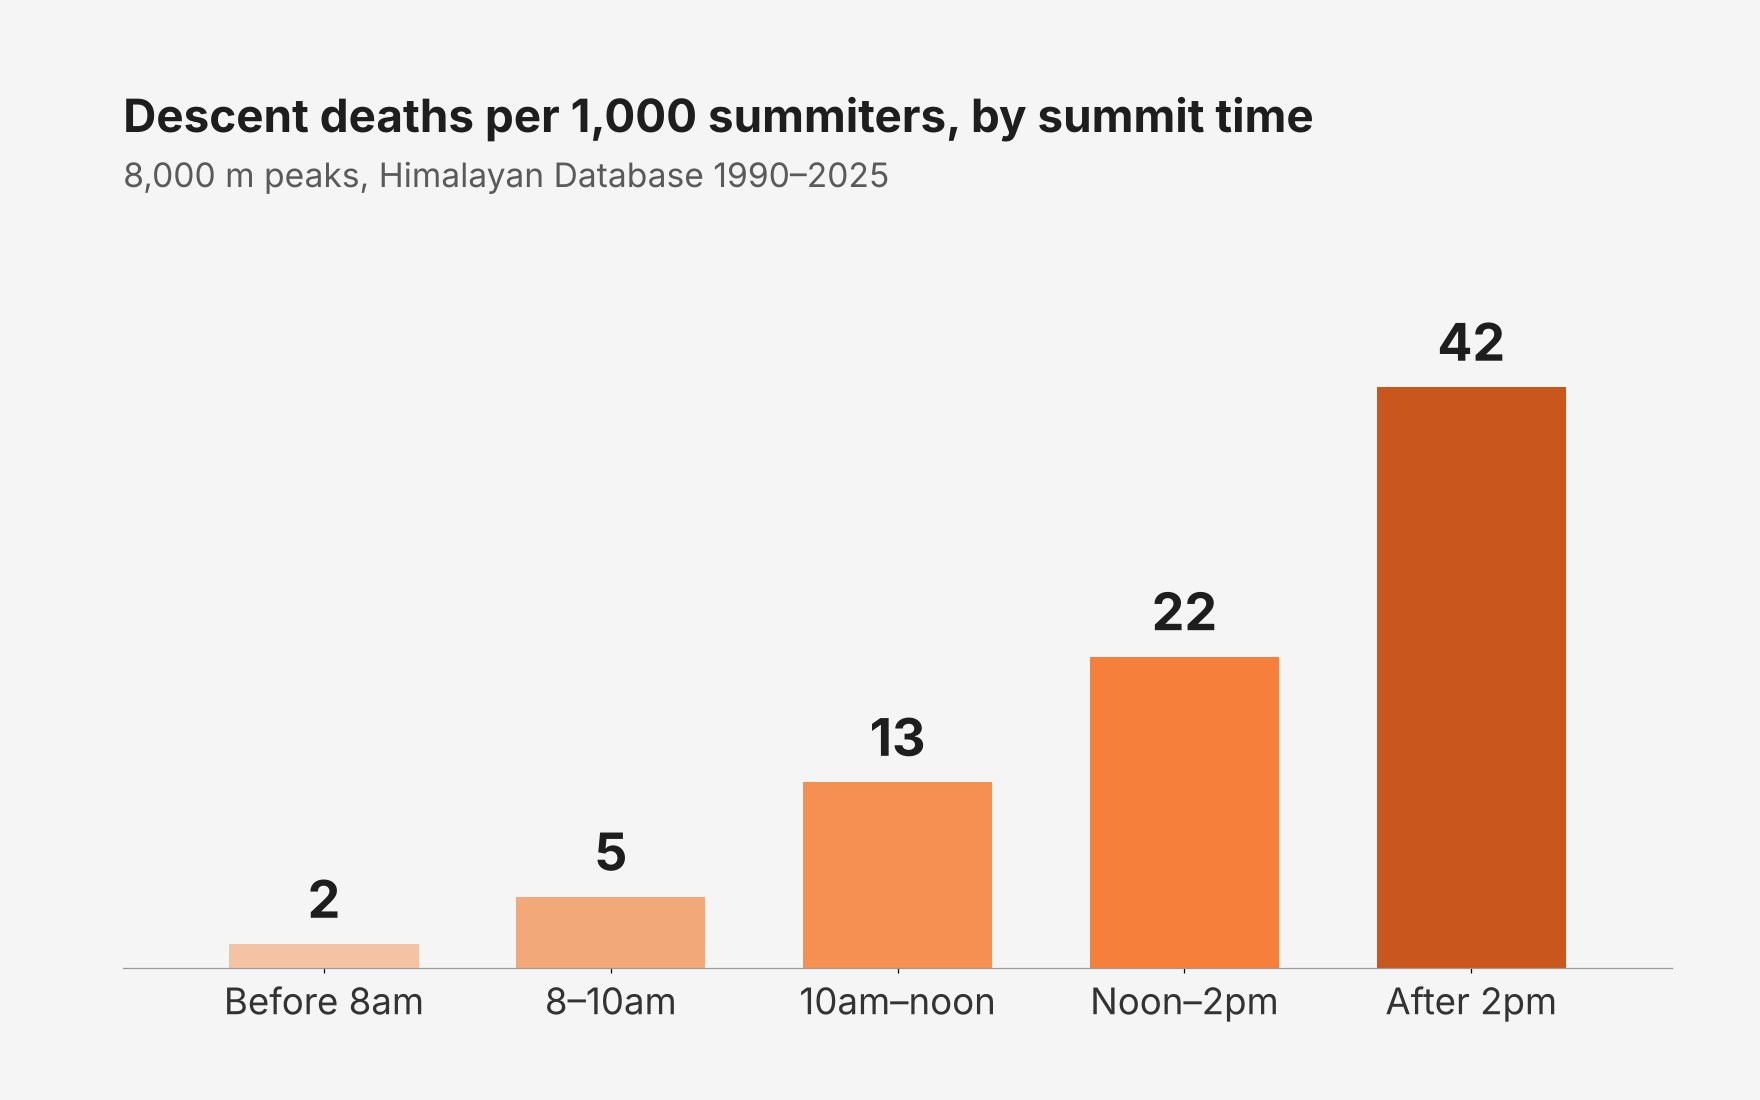
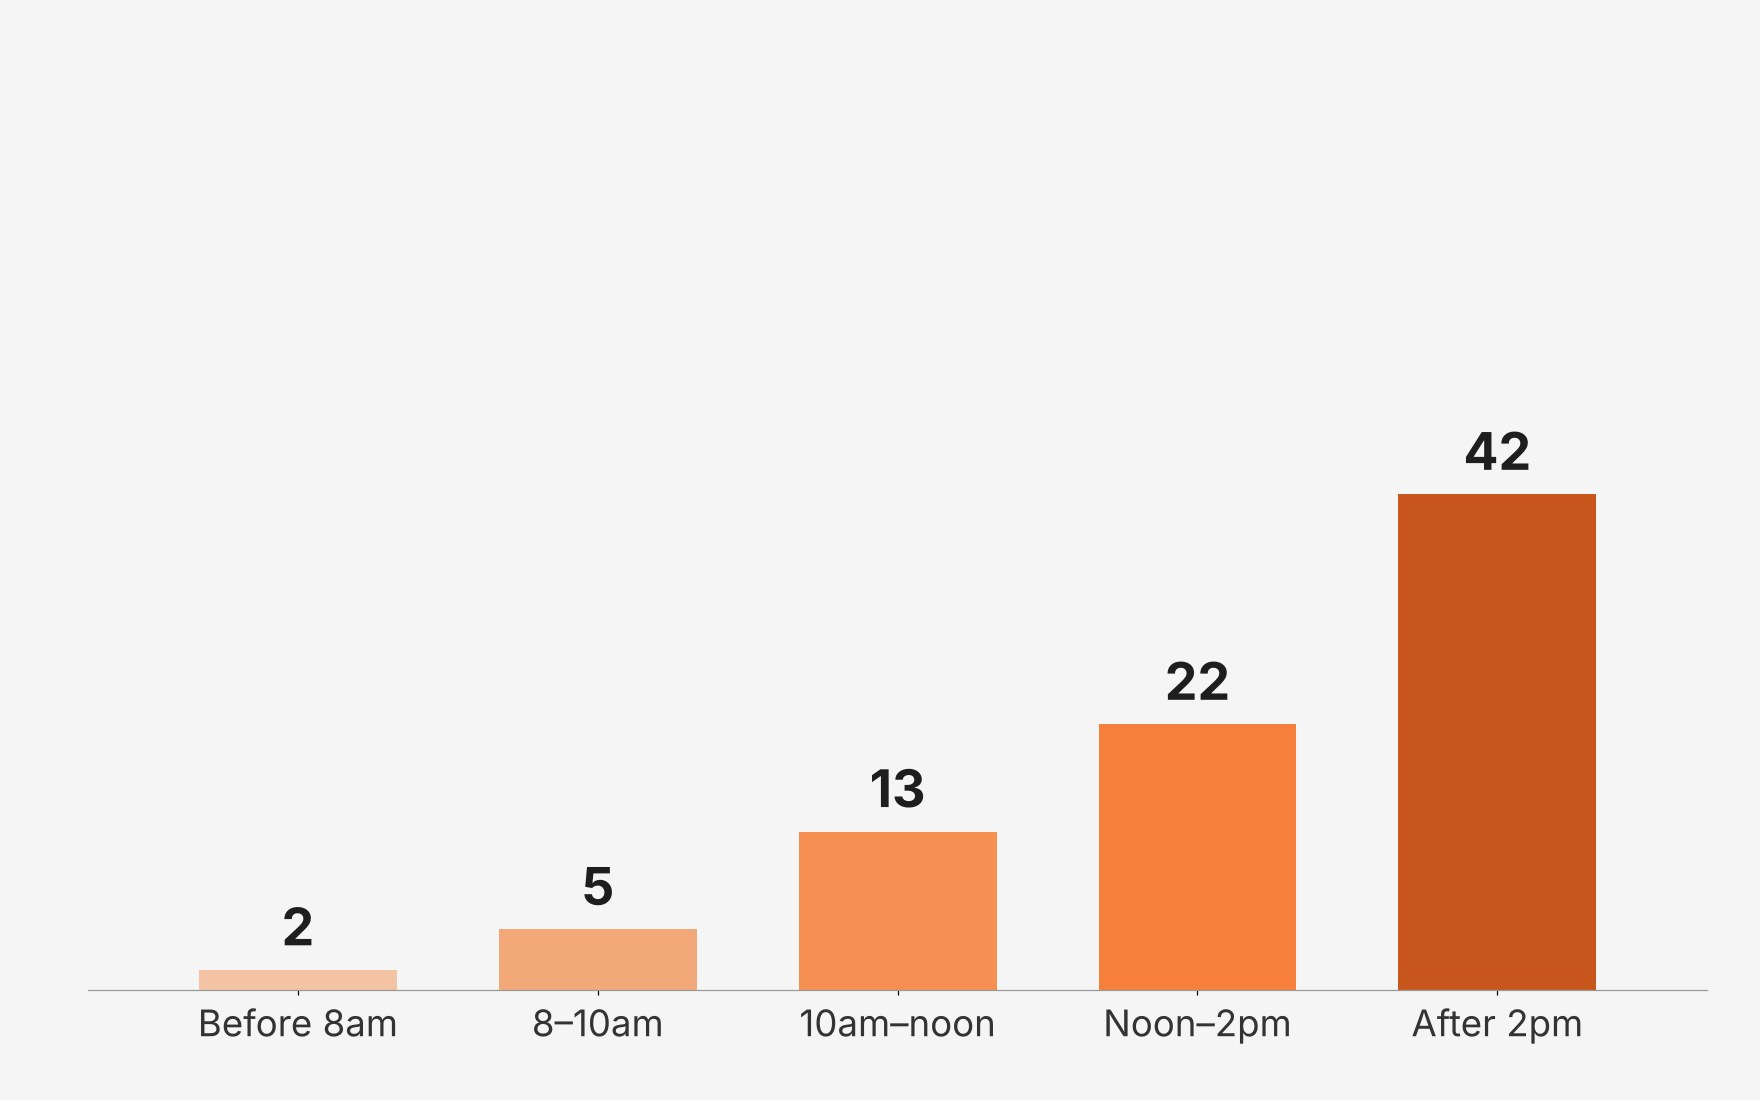
Mountains Part 3: cover without overlapping title

diff --git a/brew-map.html b/brew-map.html
@@ -9,7 +9,7 @@
   <link rel="preconnect" href="https://fonts.googleapis.com">
   <link rel="preconnect" href="https://fonts.gstatic.com" crossorigin>
   <link href="https://fonts.googleapis.com/css2?family=Barlow:wght@400;500;600;700&family=Space+Mono:wght@400;700&display=swap" rel="stylesheet">
-  <link rel="stylesheet" href="assets/css/style.css?v=202610241251">
+  <link rel="stylesheet" href="assets/css/style.css?v=202610241253">
   <link rel="stylesheet" href="https://cdnjs.cloudflare.com/ajax/libs/leaflet/1.9.4/leaflet.min.css">
   <link rel="stylesheet" href="https://cdnjs.cloudflare.com/ajax/libs/leaflet.markercluster/1.5.3/MarkerCluster.min.css">
   <link rel="stylesheet" href="https://cdnjs.cloudflare.com/ajax/libs/leaflet.markercluster/1.5.3/MarkerCluster.Default.min.css">
@@ -74,10 +74,10 @@
     </div>
   </section>
 
-  <script src="assets/js/data.js?v=202610241251"></script>
-  <script src="assets/js/fourteeners.js?v=202610241251"></script>
-  <script src="assets/js/ballparks.js?v=202610241251"></script>
-  <script src="assets/js/main.js?v=202610241251"></script>
+  <script src="assets/js/data.js?v=202610241253"></script>
+  <script src="assets/js/fourteeners.js?v=202610241253"></script>
+  <script src="assets/js/ballparks.js?v=202610241253"></script>
+  <script src="assets/js/main.js?v=202610241253"></script>
   <script src="https://cdnjs.cloudflare.com/ajax/libs/leaflet/1.9.4/leaflet.min.js"></script>
   <script src="https://cdnjs.cloudflare.com/ajax/libs/leaflet.markercluster/1.5.3/leaflet.markercluster.min.js"></script>
   <script>

diff --git a/status.html b/status.html
@@ -9,7 +9,7 @@
   <link rel="preconnect" href="https://fonts.googleapis.com">
   <link rel="preconnect" href="https://fonts.gstatic.com" crossorigin>
   <link href="https://fonts.googleapis.com/css2?family=Barlow:wght@400;500;600;700&family=Space+Mono:wght@400;700&display=swap" rel="stylesheet">
-  <link rel="stylesheet" href="assets/css/style.css?v=202610241251">
+  <link rel="stylesheet" href="assets/css/style.css?v=202610241253">
 </head>
 <!-- Everything here is generated from springs.js, arizona.js, fourteeners.js and ballparks.js.
      Grey ring = not yet. Green ring = done. -->
@@ -65,11 +65,11 @@
     </div>
   </section>
 
-  <script src="assets/js/data.js?v=202610241251"></script>
-  <script src="assets/js/fourteeners.js?v=202610241251"></script>
-  <script src="assets/js/ballparks.js?v=202610241251"></script>
-  <script src="assets/js/springs.js?v=202610241251"></script>
-  <script src="assets/js/arizona.js?v=202610241251"></script>
-  <script src="assets/js/main.js?v=202610241251"></script>
+  <script src="assets/js/data.js?v=202610241253"></script>
+  <script src="assets/js/fourteeners.js?v=202610241253"></script>
+  <script src="assets/js/ballparks.js?v=202610241253"></script>
+  <script src="assets/js/springs.js?v=202610241253"></script>
+  <script src="assets/js/arizona.js?v=202610241253"></script>
+  <script src="assets/js/main.js?v=202610241253"></script>
 </body>
 </html>

diff --git a/expedition.html b/expedition.html
@@ -8,7 +8,7 @@
   <link rel="preconnect" href="https://fonts.googleapis.com">
   <link rel="preconnect" href="https://fonts.gstatic.com" crossorigin>
   <link href="https://fonts.googleapis.com/css2?family=Barlow:wght@400;500;600&family=Space+Mono:wght@400;700&display=swap" rel="stylesheet">
-  <link rel="stylesheet" href="assets/css/style.css?v=202610241251">
+  <link rel="stylesheet" href="assets/css/style.css?v=202610241253">
 </head>
 <!-- One page renders every expedition: expedition.html?id=<id from data.js> -->
 <body data-page="expedition">
@@ -51,9 +51,9 @@
     <button class="lb-next" aria-label="Next">›</button>
   </div>
 
-  <script src="assets/js/data.js?v=202610241251"></script>
-  <script src="assets/js/fourteeners.js?v=202610241251"></script>
-  <script src="assets/js/ballparks.js?v=202610241251"></script>
-  <script src="assets/js/main.js?v=202610241251"></script>
+  <script src="assets/js/data.js?v=202610241253"></script>
+  <script src="assets/js/fourteeners.js?v=202610241253"></script>
+  <script src="assets/js/ballparks.js?v=202610241253"></script>
+  <script src="assets/js/main.js?v=202610241253"></script>
 </body>
 </html>

diff --git a/ballparks.html b/ballparks.html
@@ -9,7 +9,7 @@
   <link rel="preconnect" href="https://fonts.googleapis.com">
   <link rel="preconnect" href="https://fonts.gstatic.com" crossorigin>
   <link href="https://fonts.googleapis.com/css2?family=Barlow:wght@400;500;600&family=Space+Mono:wght@400;700&display=swap" rel="stylesheet">
-  <link rel="stylesheet" href="assets/css/style.css?v=202610241251">
+  <link rel="stylesheet" href="assets/css/style.css?v=202610241253">
 </head>
 <!-- Ballpark list lives in assets/js/ballparks.js — set visited/date/expedition there after a game. -->
 <body data-page="ballparks">
@@ -117,9 +117,9 @@
     </div>
   </section>
 
-  <script src="assets/js/data.js?v=202610241251"></script>
-  <script src="assets/js/fourteeners.js?v=202610241251"></script>
-  <script src="assets/js/ballparks.js?v=202610241251"></script>
-  <script src="assets/js/main.js?v=202610241251"></script>
+  <script src="assets/js/data.js?v=202610241253"></script>
+  <script src="assets/js/fourteeners.js?v=202610241253"></script>
+  <script src="assets/js/ballparks.js?v=202610241253"></script>
+  <script src="assets/js/main.js?v=202610241253"></script>
 </body>
 </html>

diff --git a/peaks.html b/peaks.html
@@ -9,7 +9,7 @@
   <link rel="preconnect" href="https://fonts.googleapis.com">
   <link rel="preconnect" href="https://fonts.gstatic.com" crossorigin>
   <link href="https://fonts.googleapis.com/css2?family=Barlow:wght@400;500;600&family=Space+Mono:wght@400;700&display=swap" rel="stylesheet">
-  <link rel="stylesheet" href="assets/css/style.css?v=202610241251">
+  <link rel="stylesheet" href="assets/css/style.css?v=202610241253">
 </head>
 <!-- Peak list lives in assets/js/fourteeners.js — update date + expedition there when you summit. -->
 <body data-page="peaks">
@@ -129,9 +129,9 @@
     </div>
   </section>
 
-  <script src="assets/js/data.js?v=202610241251"></script>
-  <script src="assets/js/fourteeners.js?v=202610241251"></script>
-  <script src="assets/js/ballparks.js?v=202610241251"></script>
-  <script src="assets/js/main.js?v=202610241251"></script>
+  <script src="assets/js/data.js?v=202610241253"></script>
+  <script src="assets/js/fourteeners.js?v=202610241253"></script>
+  <script src="assets/js/ballparks.js?v=202610241253"></script>
+  <script src="assets/js/main.js?v=202610241253"></script>
 </body>
 </html>

diff --git a/index.html b/index.html
@@ -9,7 +9,7 @@
   <link rel="preconnect" href="https://fonts.googleapis.com">
   <link rel="preconnect" href="https://fonts.gstatic.com" crossorigin>
   <link href="https://fonts.googleapis.com/css2?family=Barlow:wght@400;500;600&family=Space+Mono:wght@400;700&display=swap" rel="stylesheet">
-  <link rel="stylesheet" href="assets/css/style.css?v=202610241251">
+  <link rel="stylesheet" href="assets/css/style.css?v=202610241253">
 </head>
 <body data-page="home">
   <!-- Header + mega menu are injected by assets/js/main.js -->
@@ -83,9 +83,9 @@
   </section>
 
   <!-- Footer injected by main.js -->
-  <script src="assets/js/data.js?v=202610241251"></script>
-  <script src="assets/js/fourteeners.js?v=202610241251"></script>
-  <script src="assets/js/ballparks.js?v=202610241251"></script>
-  <script src="assets/js/main.js?v=202610241251"></script>
+  <script src="assets/js/data.js?v=202610241253"></script>
+  <script src="assets/js/fourteeners.js?v=202610241253"></script>
+  <script src="assets/js/ballparks.js?v=202610241253"></script>
+  <script src="assets/js/main.js?v=202610241253"></script>
 </body>
 </html>

diff --git a/expeditions.html b/expeditions.html
@@ -8,7 +8,7 @@
   <link rel="preconnect" href="https://fonts.googleapis.com">
   <link rel="preconnect" href="https://fonts.gstatic.com" crossorigin>
   <link href="https://fonts.googleapis.com/css2?family=Barlow:wght@400;500;600&family=Space+Mono:wght@400;700&display=swap" rel="stylesheet">
-  <link rel="stylesheet" href="assets/css/style.css?v=202610241251">
+  <link rel="stylesheet" href="assets/css/style.css?v=202610241253">
 </head>
 <body data-page="log">
 
@@ -28,9 +28,9 @@
     </div>
   </section>
 
-  <script src="assets/js/data.js?v=202610241251"></script>
-  <script src="assets/js/fourteeners.js?v=202610241251"></script>
-  <script src="assets/js/ballparks.js?v=202610241251"></script>
-  <script src="assets/js/main.js?v=202610241251"></script>
+  <script src="assets/js/data.js?v=202610241253"></script>
+  <script src="assets/js/fourteeners.js?v=202610241253"></script>
+  <script src="assets/js/ballparks.js?v=202610241253"></script>
+  <script src="assets/js/main.js?v=202610241253"></script>
 </body>
 </html>

diff --git a/about.html b/about.html
@@ -8,7 +8,7 @@
   <link rel="preconnect" href="https://fonts.googleapis.com">
   <link rel="preconnect" href="https://fonts.gstatic.com" crossorigin>
   <link href="https://fonts.googleapis.com/css2?family=Barlow:wght@400;500;600&family=Space+Mono:wght@400;700&display=swap" rel="stylesheet">
-  <link rel="stylesheet" href="assets/css/style.css?v=202610241251">
+  <link rel="stylesheet" href="assets/css/style.css?v=202610241253">
 </head>
 <body data-page="about">
 
@@ -58,9 +58,9 @@
   </section>
 
 
-  <script src="assets/js/data.js?v=202610241251"></script>
-  <script src="assets/js/fourteeners.js?v=202610241251"></script>
-  <script src="assets/js/ballparks.js?v=202610241251"></script>
-  <script src="assets/js/main.js?v=202610241251"></script>
+  <script src="assets/js/data.js?v=202610241253"></script>
+  <script src="assets/js/fourteeners.js?v=202610241253"></script>
+  <script src="assets/js/ballparks.js?v=202610241253"></script>
+  <script src="assets/js/main.js?v=202610241253"></script>
 </body>
 </html>
